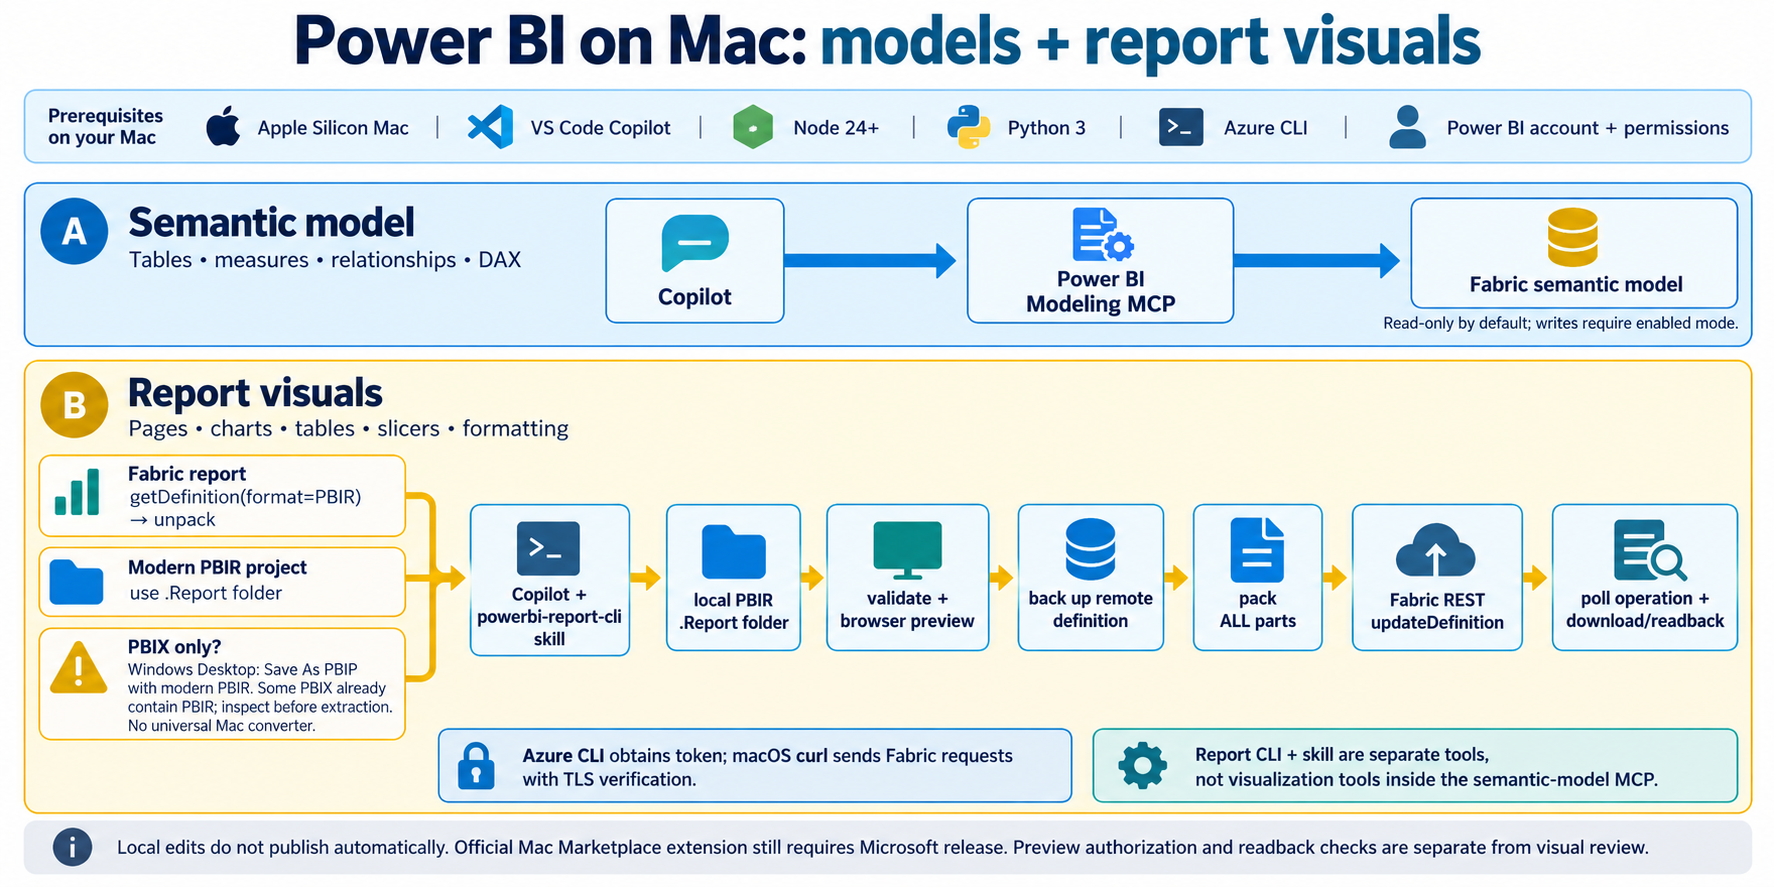
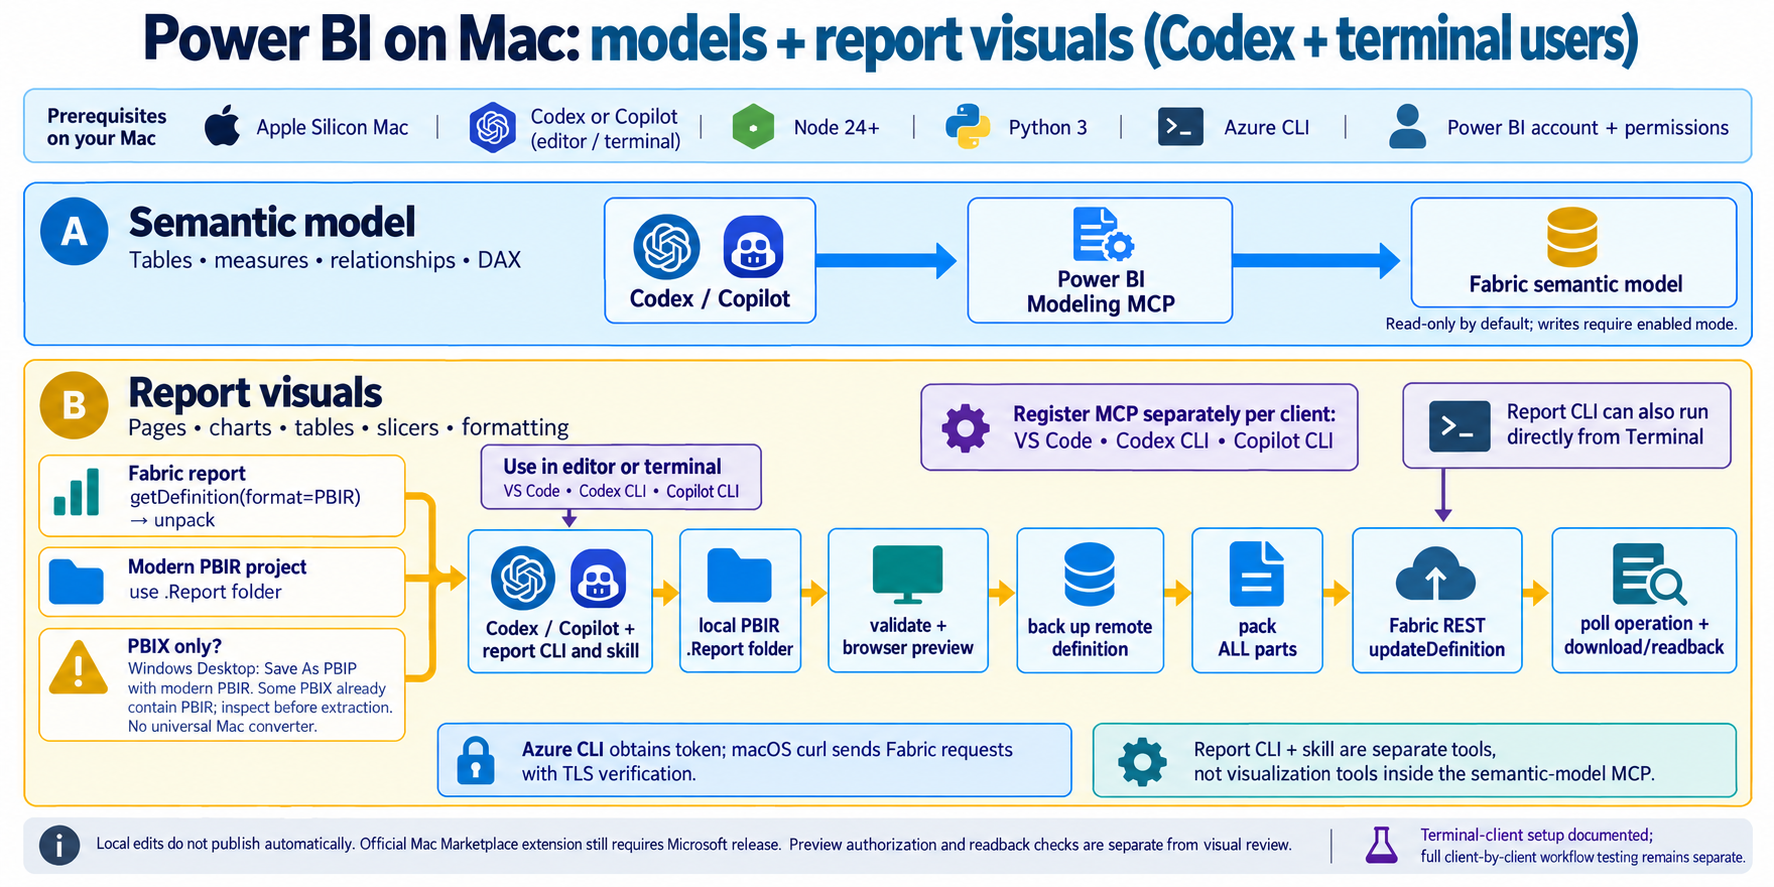
Document Codex and Copilot terminal client setup

diff --git a/docs/macos-workflow.md b/docs/macos-workflow.md
@@ -1,7 +1,9 @@
 # Apple Silicon model and report authoring workflow
 
 This contribution installs a **local companion workflow** for Microsoft Power BI
-semantic-model authoring and report visualization authoring in VS Code Copilot.
+semantic-model authoring and report visualization authoring with Codex or Copilot,
+including terminal workflows. The installer defaults to VS Code Copilot;
+other clients use the registration steps below.
 It does not publish an official Mac extension or add report tools to Microsoft's
 semantic-model MCP. Microsoft must still publish a supported Mac VSIX.
 
@@ -61,6 +63,92 @@ For pages, charts, slicers, formatting, and themes, ask Copilot to use the
 visual metadata and validation; the skill authors the report definitions.
 Report changes remain local until you explicitly request publishing.
 
+## Codex and Copilot terminal workflows
+
+The signed stdio model server and report CLI can be reused across clients.
+VS Code's MCP JSON does **not** register the server in Codex or Copilot CLI.
+Do not pass a Codex TOML file or Copilot CLI MCP JSON to the installer's `--config`
+option: that option writes the VS Code `servers` format only.
+
+### Codex CLI (terminal)
+
+Install the tools with a Codex-discoverable skill directory. A separate generated
+VS Code-format config keeps this installation out of your live VS Code config:
+
+```bash
+python3 scripts/macos_setup.py \
+  --config "$HOME/Library/Application Support/powerbi-macos/vscode-mcp.json" \
+  --skill-directory "$HOME/.agents/skills/powerbi-report-cli"
+
+codex mcp add powerbi-macos -- \
+  "$HOME/Library/Application Support/powerbi-macos/model/1.0.0/powerbi-modeling-mcp" \
+  --read-only
+codex mcp list
+
+export PATH="$HOME/Library/Application Support/powerbi-macos/bin:$PATH"
+cd /path/to/your/report/project
+codex
+```
+
+For an existing installation, reuse the installed binary and register the skill
+from the installer's `report-skill-package` using `--skill-directory`; do not
+overwrite an unrelated skill. Check existing MCP entries before adding one.
+The commands above assume the default prefix and pinned MCP version.
+Codex supports stdio MCP registration and discovers user skills in
+`~/.agents/skills`; see [Codex MCP documentation](https://developers.openai.com/codex/mcp)
+and [Codex skill documentation](https://developers.openai.com/codex/skills).
+Restart the client after registration. For model writes, deliberately replace
+`--read-only` with `--read-write --require-confirmation`.
+
+### Copilot CLI (terminal)
+
+The default installer registers the report skill in `~/.copilot/skills`, which
+Copilot CLI also uses. Register the model MCP separately:
+
+```bash
+copilot mcp add powerbi-macos -- \
+  "$HOME/Library/Application Support/powerbi-macos/model/1.0.0/powerbi-modeling-mcp" \
+  --read-only
+copilot mcp list
+
+export PATH="$HOME/Library/Application Support/powerbi-macos/bin:$PATH"
+cd /path/to/your/report/project
+copilot
+```
+
+If the installed Copilot CLI version does not provide `copilot mcp add`, use
+`/mcp add` interactively, select stdio and enter the same absolute binary path
+and arguments. CLI registration is stored separately in
+`~/.copilot/mcp-config.json`. See [GitHub's MCP instructions](https://docs.github.com/en/copilot/how-tos/copilot-cli/customize-copilot/add-mcp-servers)
+and [CLI configuration reference](https://docs.github.com/en/copilot/reference/copilot-cli-reference/cli-config-dir-reference).
+
+### Direct terminal use and a shared agent prompt
+
+The report CLI can run directly without either AI client. For example, unpack a
+completed Fabric definition into a fresh folder and package all edited parts:
+
+```bash
+powerbi-report-author doctor
+powerbi-report-author unpack ./MyReport.Report --input downloaded-definition.json
+powerbi-report-author pack ./MyReport.Report --raw --out update-definition.json
+```
+
+`pack` creates a payload; it does not validate, publish or replace visual review.
+Use the report skill's authoring workflow to validate and preview edits before
+the management workflow publishes them. In either Codex or Copilot, a useful
+prompt is:
+
+> Use the powerbi-report-cli skill to inspect this modern PBIR report folder.
+> Use Power BI Modeling MCP to check the bound model's fields and measures.
+> Add the requested page, preserve existing pages, validate the report and review
+> the browser preview. Keep changes local until I request publishing.
+
+Each client still needs file/process/network access appropriate to its sandbox,
+an authenticated Power BI account and relevant service permissions. Review the
+EULA explicitly through the model MCP before use. These client setup instructions
+are documented routes, not a claim that every client has passed an end-to-end
+report upload and visual-review test.
+
 ## Fixes included
 
 - **Unsigned ARM64 MCP:** sign a separate local copy, keeping its resources,
@@ -93,7 +181,7 @@ Report changes remain local until you explicitly request publishing.
 
 | Component | Purpose | Required when |
 | --- | --- | --- |
-| VS Code Copilot Agent | Runs the workflow from your instructions | Using this Copilot workflow |
+| Codex or Copilot (editor or terminal) | Runs the workflow from your instructions | Using an AI agent; direct CLI use is also possible |
 | Power BI Modeling MCP | Connects to semantic models; inspects tables, measures and relationships; performs permitted model/DAX operations | Reading or changing the semantic model |
 | `powerbi-report-cli` skill + `powerbi-report-author` CLI | Inspects, edits, validates, previews and packages modern PBIR report definitions | Editing pages and visuals |
 | Azure CLI | Obtains the signed-in user's Fabric/Power BI access token | Accessing service reports or live preview |
@@ -157,7 +245,7 @@ convert, edit or publish a user's report.
 ```mermaid
 flowchart TB
   subgraph Original[Original semantic-model workflow]
-    A[VS Code Copilot] --> B[Power BI Modeling MCP]
+    A[Codex or Copilot: editor or terminal] --> B[Power BI Modeling MCP]
     B --> C[Semantic model: tables, measures, relationships, DAX]
   end
   subgraph Added[Companion workflow added for Apple Silicon]
@@ -165,7 +253,7 @@ flowchart TB
     E[Fabric report] --> F[REST getDefinition as PBIR]
     F --> G[CLI unpack to fresh .Report folder]
     H[Existing modern PBIR project] --> G
-    G --> I[Copilot plus report skill and CLI]
+    G --> I[Codex or Copilot plus report skill and CLI]
     I --> J[Edit pages, charts, tables and slicers]
     J --> K[Validate and review browser rendering]
     K --> L[Back up remote report and pack all parts]

diff --git a/README.md b/README.md
@@ -54,7 +54,9 @@ The easiest way to install this MCP Server is by using the **Visual Studio Code 
 ### Experimental Apple Silicon companion workflow
 
 For a local macOS setup that combines semantic-model MCP tools with Microsoft's
-report-authoring skill for pages and visuals, see [macOS workflow](docs/macos-workflow.md).
+report-authoring skill for pages and visuals in Codex, VS Code Copilot, or
+Copilot CLI, see [macOS workflow](docs/macos-workflow.md), including terminal-client
+registration and direct report CLI instructions.
 The helper installs official packages, locally signs an executable copy, and
 tests startup. It is a contribution for evaluation; an official macOS Marketplace
 extension still requires publisher changes.
